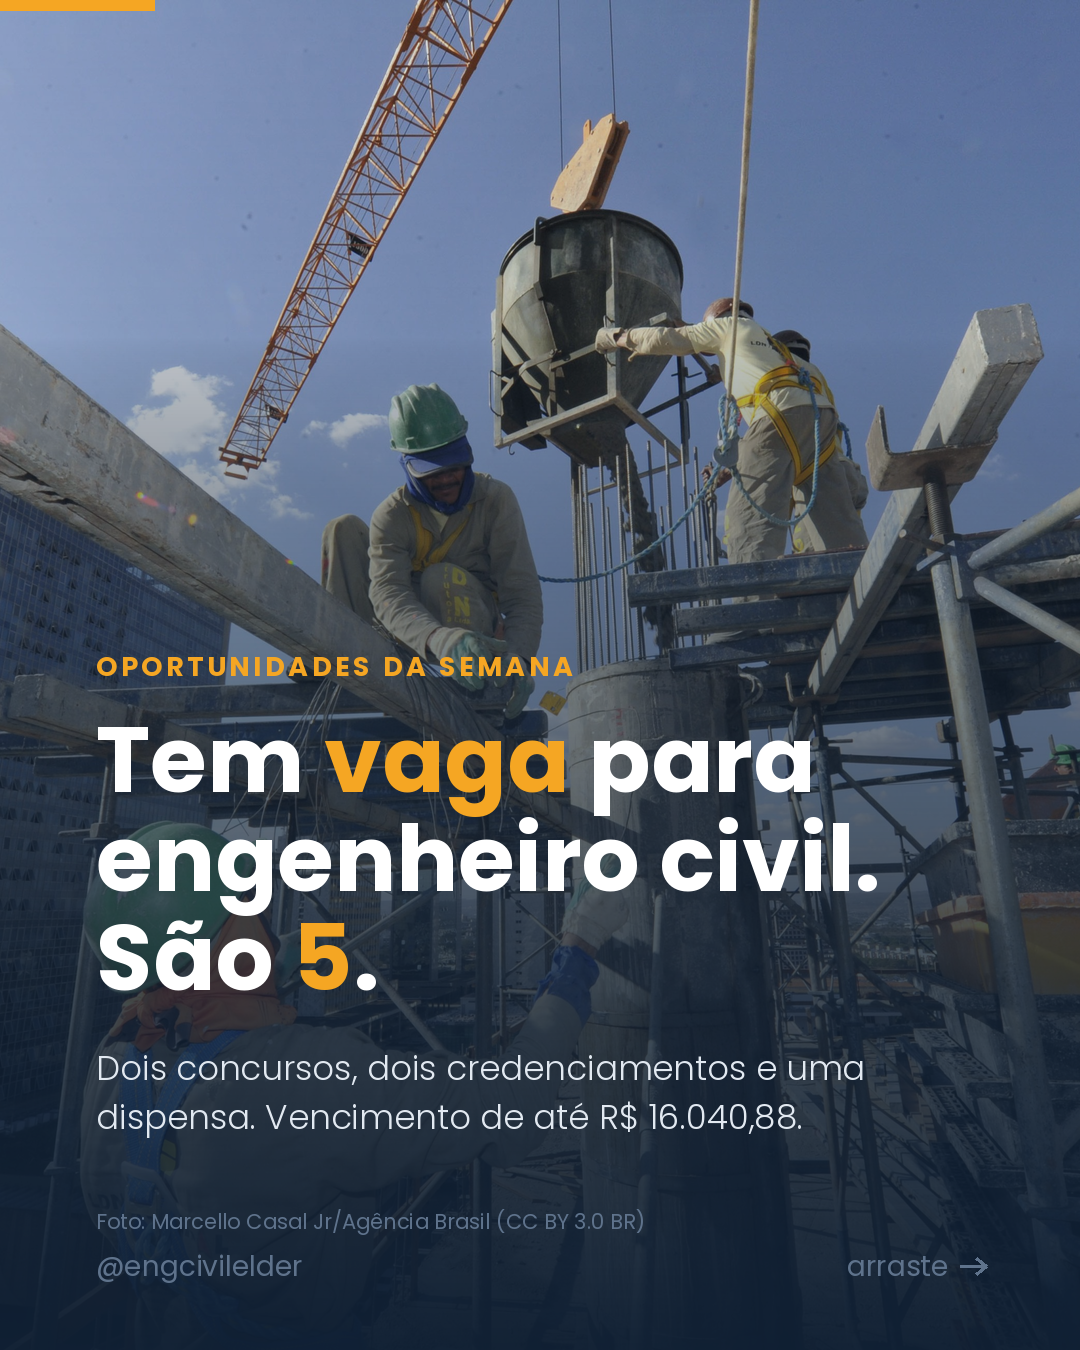
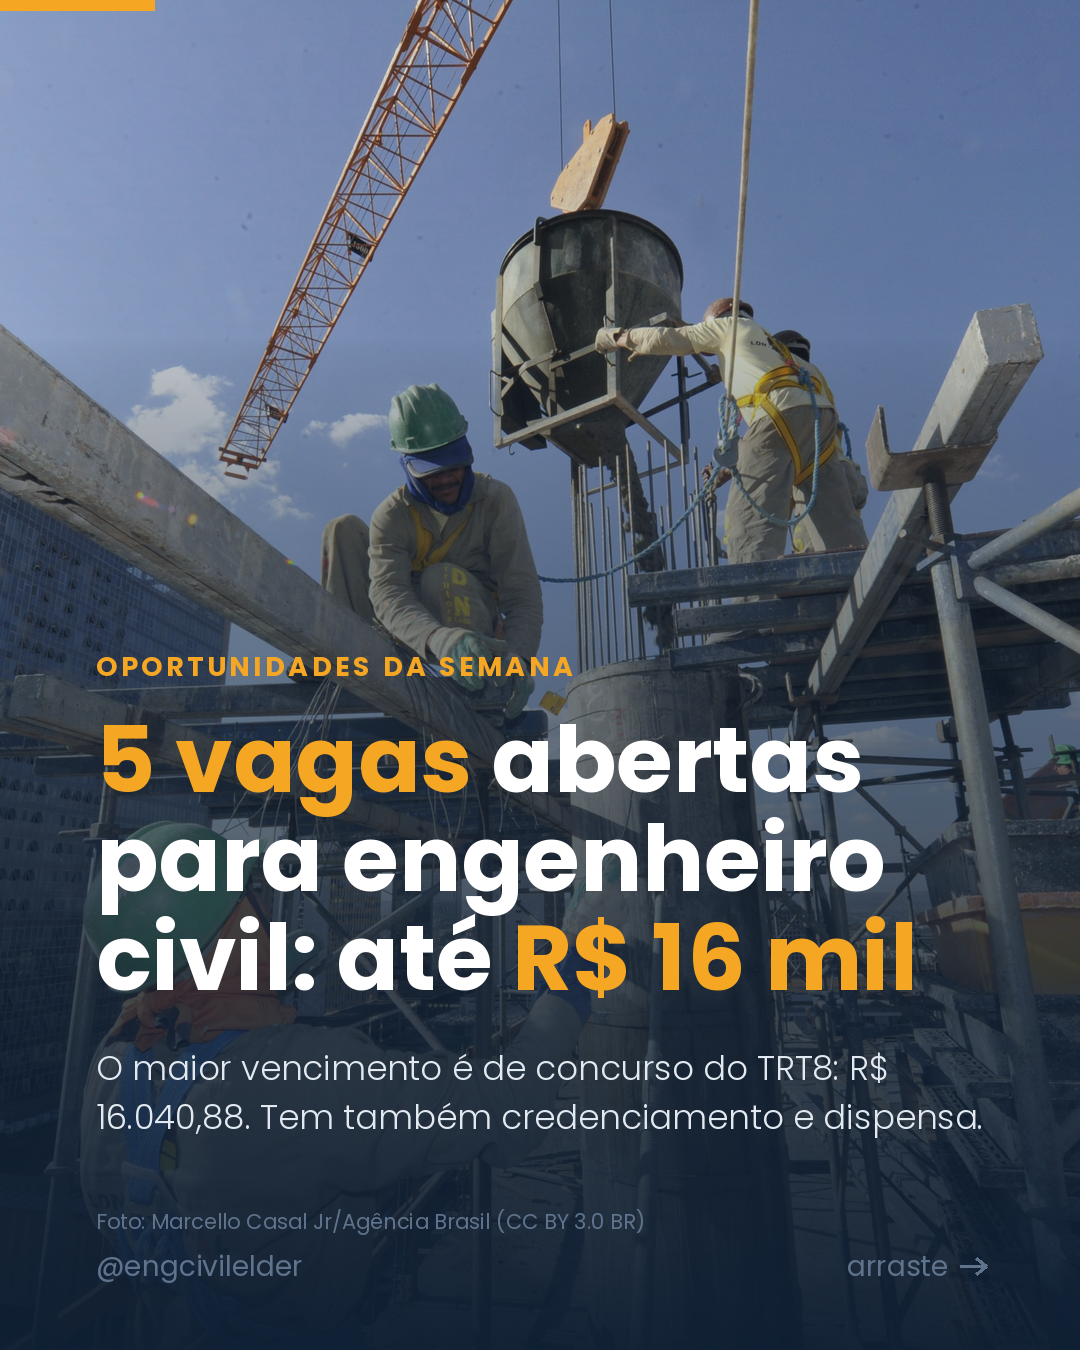
Capa de segunda com novo título e capa de sábado com cachorro na obra
Claude-Session: https://claude.ai/code/session_019joPUb7NW1wZJbqLs3aUtG

Changed region(s): [[0.0917, 0.5289, 0.8556, 0.7467], [0.0917, 0.7778, 0.9167, 0.84]]

diff --git a/README_fontes.md b/README_fontes.md
@@ -33,4 +33,4 @@ crédito não se perca do arquivo.
 | `2026-10-14-linkedin.jpg` | Trabalhador conferindo fôrma em obra (foto do LinkedIn de quarta, publicada em `2026-10-14/linkedin.jpg`) | Fernando Frazão/Agência Brasil, CC BY 3.0 BR | https://agenciabrasil.ebc.com.br/economia/noticia/2023-01/indice-nacional-da-construcao-civil-fecha-2022-com-alta-de-109 |
 | `2026-10-16-estrutura-concreto.jpg` | Estrutura de concreto de edifício em obra, com operários em silhueta | Marcello Casal Jr/Agência Brasil, CC BY 3.0 BR | https://agenciabrasil.ebc.com.br/economia/noticia/2022-08/indice-nacional-da-construcao-civil-sobe-148-em-julho |
 | `2026-10-18-pilar-corrosao.jpg` | Pilar de concreto de ponte com lascamento e armadura exposta pela corrosão | Oregon Department of Transportation/Flickr, CC BY 2.0 | https://www.flickr.com/photos/oregondot/51876049744/ |
-| `2026-10-17-corpos-de-prova.jpg` | Corpos de prova de concreto em paletes (mesma foto da capa de 26/09, reaproveitada: a fonte de fotos livres estava bloqueada na produção) | Reuse Warehouse Houston/Flickr, CC BY 2.0 | https://www.flickr.com/photo.gne?id=4822056630 |
+| `2026-10-17-cachorro-escavadeira.jpg` | Cachorro na cabine de uma escavadeira (1024x683 px, entra como faixa) | DarlingJack/Flickr, CC BY 2.0 | https://www.flickr.com/photos/92584549@N08/26217753665 |
